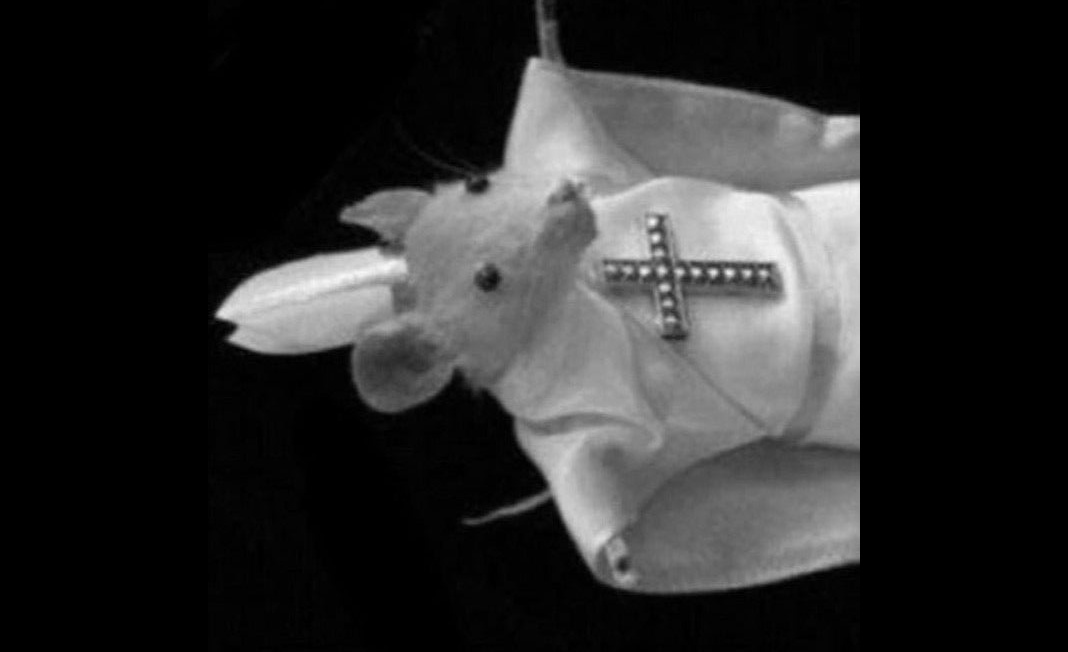
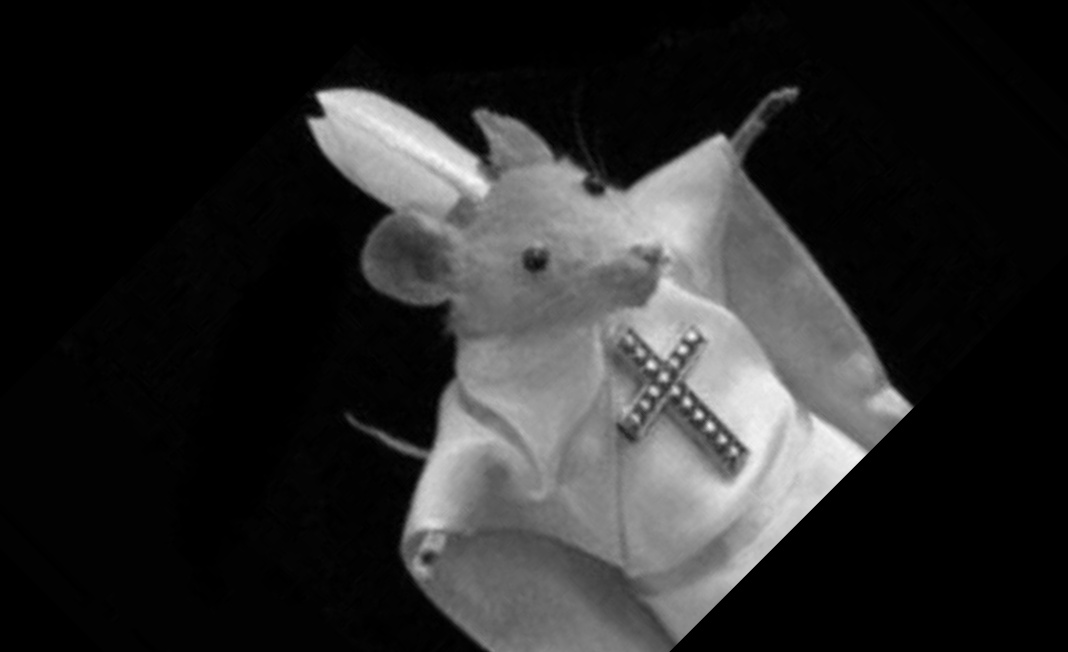
atualizacao

diff --git a/aula29/rotacao.py b/aula29/rotacao.py
@@ -11,19 +11,17 @@ img_files = sorted([
        and f.lower().endswith(('.jpg', '.jpeg', '.png'))
 ])
 
-angulo = 90
+angulo = 45
+escala = 1.0
 
 for fname in img_files:
     path = os.path.join(IMGS_DIR, fname)
     img = cv2.imread(path, cv2.IMREAD_GRAYSCALE)
-    if img is None:
-        print(f"Falha ao carregar {fname}, pulando…")
-        continue
 
     h, w = img.shape[:2]
     centro = (w // 2, h // 2)
 
-    M = cv2.getRotationMatrix2D(centro, angulo, 1.0)
+    M = cv2.getRotationMatrix2D(centro, angulo, escala)
 
     rotated = cv2.warpAffine(img, M, (w, h))
 
